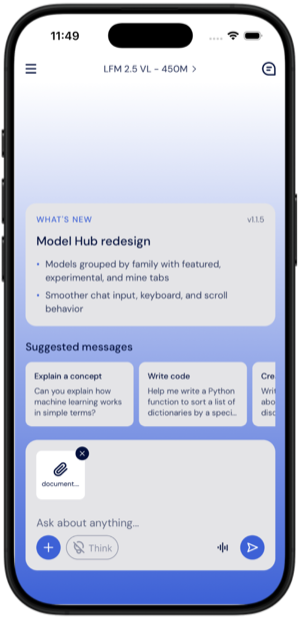
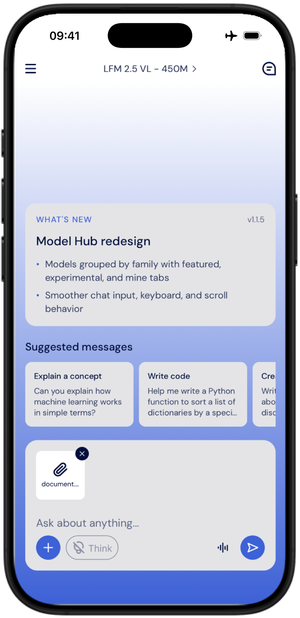
feat(onboarding): one voice per slide, one frame across the illustrations
Each slide carried three pieces of copy — an eyebrow, a headline and a
paragraph — and on most of them all three said the same thing. The
eyebrow now names the feature and the headline states what the feature
actually gives you; the paragraph is gone, along with the token that
only it used. Where the paragraph carried the substance, that substance
moved into the headline: the web search slide leads with the boundary
the feature respects rather than with an invitation to try it.

step_voice was built on a different device frame from its siblings — a
thinner bezel around an 844 px screen against their 813 — so the phone
changed shape as the carousel moved. Its screen is re-seated in the frame
the other three share.

The declared aspect ratios were rounded to whole points, which asked for
1854 px of a 1856 px file and resampled every illustration by a hair.
Since the bezel is a high-contrast curve, that showed as broken pixels
along the top edge of the two slides that are not faded there. All four
now declare the ratio their files actually have, so nothing is resampled.

The status bar reads airplane mode everywhere except the web search
slide, which is the one feature that needs a connection. The two filled
icons, chat and document, are drawn slightly smaller than the two stroked
ones so they carry the same visual weight next to the label.

diff --git a/components/onboarding/OnboardingSlide.tsx b/components/onboarding/OnboardingSlide.tsx
@@ -13,10 +13,10 @@ import OnboardingScrim from './OnboardingScrim';
 import { Theme, mixColors, withAlpha } from '../../styles/colors';
 import { fontFamily, fontSizes, lineHeights } from '../../styles/fontStyles';
 import {
+  BADGE_LEAD,
   CARD_INSET,
   CONTENT_PADDING,
   CROP_FADE,
-  DESCRIPTION_LEAD,
   ILLUSTRATION_MAX_WIDTH,
   ILLUSTRATION_PARALLAX,
   ILLUSTRATION_SIDE_INSET,
@@ -66,6 +66,7 @@ function OnboardingSlide({
   );
 
   const Icon = slide.icon.art;
+  const iconHeight = LABEL_ICON_SIZE * (slide.icon.scale ?? 1);
   const anchoredTop = slide.illustration.anchor === 'top';
   const cropClearance = theme.insets.top + ILLUSTRATION_TOP_CLEARANCE;
   const cropHeight = cropClearance + CROP_FADE;
@@ -122,8 +123,8 @@ function OnboardingSlide({
     };
   });
 
-  const titleStyle = useAnimatedStyle(() => {
-    const travel = reducedMotion ? 0 : pageWidth * TITLE_LEAD;
+  const badgeStyle = useAnimatedStyle(() => {
+    const travel = reducedMotion ? 0 : pageWidth * BADGE_LEAD;
     return {
       opacity: interpolate(
         scrollX.get(),
@@ -144,8 +145,8 @@ function OnboardingSlide({
     };
   });
 
-  const descriptionStyle = useAnimatedStyle(() => {
-    const travel = reducedMotion ? 0 : pageWidth * DESCRIPTION_LEAD;
+  const titleStyle = useAnimatedStyle(() => {
+    const travel = reducedMotion ? 0 : pageWidth * TITLE_LEAD;
     return {
       opacity: interpolate(
         scrollX.get(),
@@ -203,21 +204,18 @@ function OnboardingSlide({
           style={styles.textBlock}
           onLayout={onTextLayout}
           accessible
-          accessibilityLabel={`${slide.label}. ${slide.title}. ${slide.description}`}
+          accessibilityLabel={`${slide.label}. ${slide.title}`}
         >
-          <Animated.View style={[styles.textGroup, titleStyle]}>
-            <View style={styles.labelBadge}>
-              <Icon
-                width={LABEL_ICON_SIZE * slide.icon.aspectRatio}
-                height={LABEL_ICON_SIZE}
-                style={styles.labelIcon}
-              />
-              <Text style={styles.labelText}>{slide.label}</Text>
-            </View>
-            <Text style={styles.title}>{slide.title}</Text>
+          <Animated.View style={[styles.labelBadge, badgeStyle]}>
+            <Icon
+              width={iconHeight * slide.icon.aspectRatio}
+              height={iconHeight}
+              style={styles.labelIcon}
+            />
+            <Text style={styles.labelText}>{slide.label}</Text>
           </Animated.View>
-          <Animated.Text style={[styles.description, descriptionStyle]}>
-            {slide.description}
+          <Animated.Text style={[styles.title, titleStyle]}>
+            {slide.title}
           </Animated.Text>
         </View>
       </View>
@@ -265,10 +263,6 @@ const createStyles = (theme: Theme) =>
       alignItems: 'center',
       gap: 12,
     },
-    textGroup: {
-      alignItems: 'center',
-      gap: 12,
-    },
     labelBadge: {
       flexDirection: 'row',
       alignItems: 'center',
@@ -294,12 +288,5 @@ const createStyles = (theme: Theme) =>
       lineHeight: lineHeights.xxl,
       textAlign: 'center',
       color: theme.text.onBrand,
-    },
-    description: {
-      fontFamily: fontFamily.regular,
-      fontSize: fontSizes.md,
-      lineHeight: lineHeights.md,
-      textAlign: 'center',
-      color: theme.text.onBrandMuted,
     },
   });

diff --git a/constants/onboarding.ts b/constants/onboarding.ts
@@ -15,13 +15,13 @@ export interface OnboardingIllustration {
 export interface OnboardingIcon {
   art: SvgComponent;
   aspectRatio: number;
+  scale?: number;
 }
 
 export interface OnboardingSlide {
   id: string;
   label: string;
   title: string;
-  description: string;
   buttonLabel: string;
   icon: OnboardingIcon;
   illustration: OnboardingIllustration;
@@ -29,60 +29,54 @@ export interface OnboardingSlide {
 
 export const INTRO_ART = WelcomeArt;
 export const INTRO_ART_ASPECT_RATIO = 300 / 420;
-export const CHAT_ART_ASPECT_RATIO = 300 / 618;
+export const STEP_ART_ASPECT_RATIO = 900 / 1856;
 
 export const ONBOARDING_SLIDES: OnboardingSlide[] = [
   {
     id: 'offline',
     label: 'Offline AI access',
-    title: 'Chat with AI models offline',
-    description:
-      'Interact with AI models securely and offline on your mobile device.',
+    title: 'Models that run on your phone',
     buttonLabel: 'Got it, next',
-    icon: { art: ChatIcon, aspectRatio: 1 },
+    icon: { art: ChatIcon, aspectRatio: 1, scale: 0.85 },
     illustration: {
       source: require('../assets/onboarding/step_chat.png'),
-      aspectRatio: CHAT_ART_ASPECT_RATIO,
+      aspectRatio: STEP_ART_ASPECT_RATIO,
       anchor: 'top',
     },
   },
   {
     id: 'web-search',
     label: 'Web search',
-    title: 'Ask about things that happened today',
-    description:
-      'The model reads live pages and cites its sources. Only the search query leaves your device.',
+    title: 'Only the search query leaves your device',
     buttonLabel: 'Nice, next',
     icon: { art: WebIcon, aspectRatio: 1 },
     illustration: {
       source: require('../assets/onboarding/step_websearch.png'),
-      aspectRatio: 300 / 618,
+      aspectRatio: STEP_ART_ASPECT_RATIO,
       anchor: 'top',
     },
   },
   {
     id: 'documents',
     label: 'Your documents',
-    title: 'Add source documents',
-    description: 'Use extra files to extend models knowledge and responses.',
+    title: 'Answers drawn from your own files',
     buttonLabel: 'Great, next',
-    icon: { art: SourceIcon, aspectRatio: 16 / 20 },
+    icon: { art: SourceIcon, aspectRatio: 16 / 20, scale: 0.85 },
     illustration: {
       source: require('../assets/onboarding/step_sources.png'),
-      aspectRatio: 300 / 618,
+      aspectRatio: STEP_ART_ASPECT_RATIO,
       anchor: 'bottom',
     },
   },
   {
     id: 'voice',
     label: 'Speech to text',
-    title: 'Use voice instead of chat',
-    description: 'Use voice messages that automatically transcript into text.',
+    title: 'Speak instead of typing',
     buttonLabel: 'Start chatting',
     icon: { art: SoundwaveIcon, aspectRatio: 1 },
     illustration: {
       source: require('../assets/onboarding/step_voice.png'),
-      aspectRatio: 300 / 613,
+      aspectRatio: STEP_ART_ASPECT_RATIO,
       anchor: 'bottom',
     },
   },
@@ -93,8 +87,8 @@ export const INTRO_LIFT = 24;
 export const INTRO_STAGGER_MS = 80;
 
 export const ILLUSTRATION_PARALLAX = 0.35;
-export const TITLE_LEAD = -0.12;
-export const DESCRIPTION_LEAD = -0.18;
+export const BADGE_LEAD = -0.12;
+export const TITLE_LEAD = -0.18;
 
 export const DOT_SIZE = 6;
 export const DOT_ACTIVE_WIDTH = 20;

diff --git a/styles/colors.ts b/styles/colors.ts
@@ -37,7 +37,6 @@ export const lightTheme = {
     error: '#DE595B',
     warning: '#B8630A',
     onBrand: '#ffffff',
-    onBrandMuted: 'rgba(255, 255, 255, 0.76)',
   },
   border: {
     soft: 'rgba(2, 15, 60, 0.2)',
@@ -86,7 +85,6 @@ export const darkTheme = {
     error: '#E68485',
     warning: '#F0A860',
     onBrand: '#ffffff',
-    onBrandMuted: 'rgba(255, 255, 255, 0.76)',
   },
   border: {
     soft: 'rgba(255, 255, 255, 0.15)',
